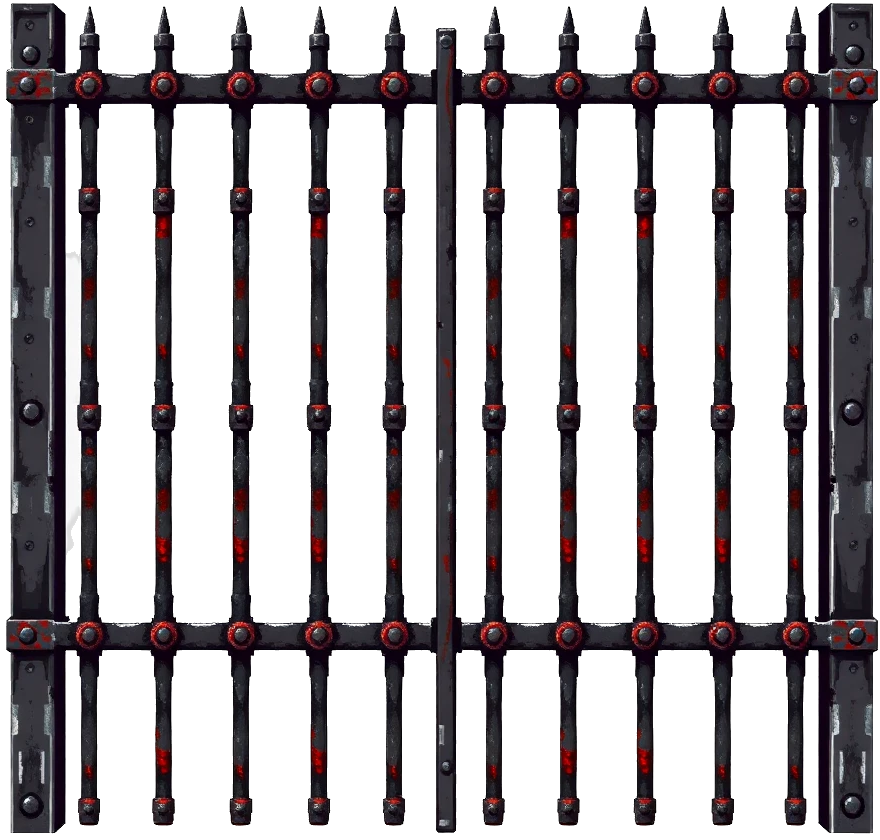
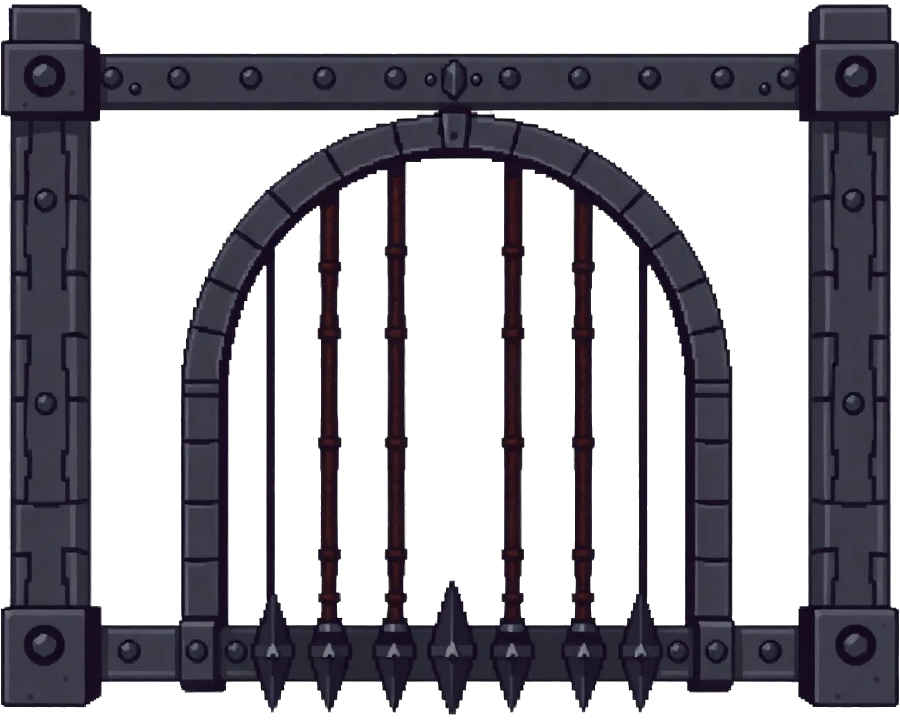
v2: Regenerate our gate texture and while doing this go ahead and make it where we cannot stand in the north gate tile anymore while the gate is up (We will be able to move the gates eventually)

diff --git a/src/physics.js b/src/physics.js
@@ -19,8 +19,8 @@ export function checkCollision(x, y) {
     const gateX = Math.floor(CONFIG.GRID_W / 2);
     const gateY = Math.floor(CONFIG.GRID_H / 2);
 
-    // Top/Bottom Gates
-    if (gx === gateX && (gy === 0 || gy === CONFIG.GRID_H - 1)) return false;
+    // Bottom Gate only (North gate remains solid/closed)
+    if (gx === gateX && gy === CONFIG.GRID_H - 1) return false;
     // Left/Right Gates
     if (gy === gateY && (gx === 0 || gx === CONFIG.GRID_W - 1)) return false;
 
